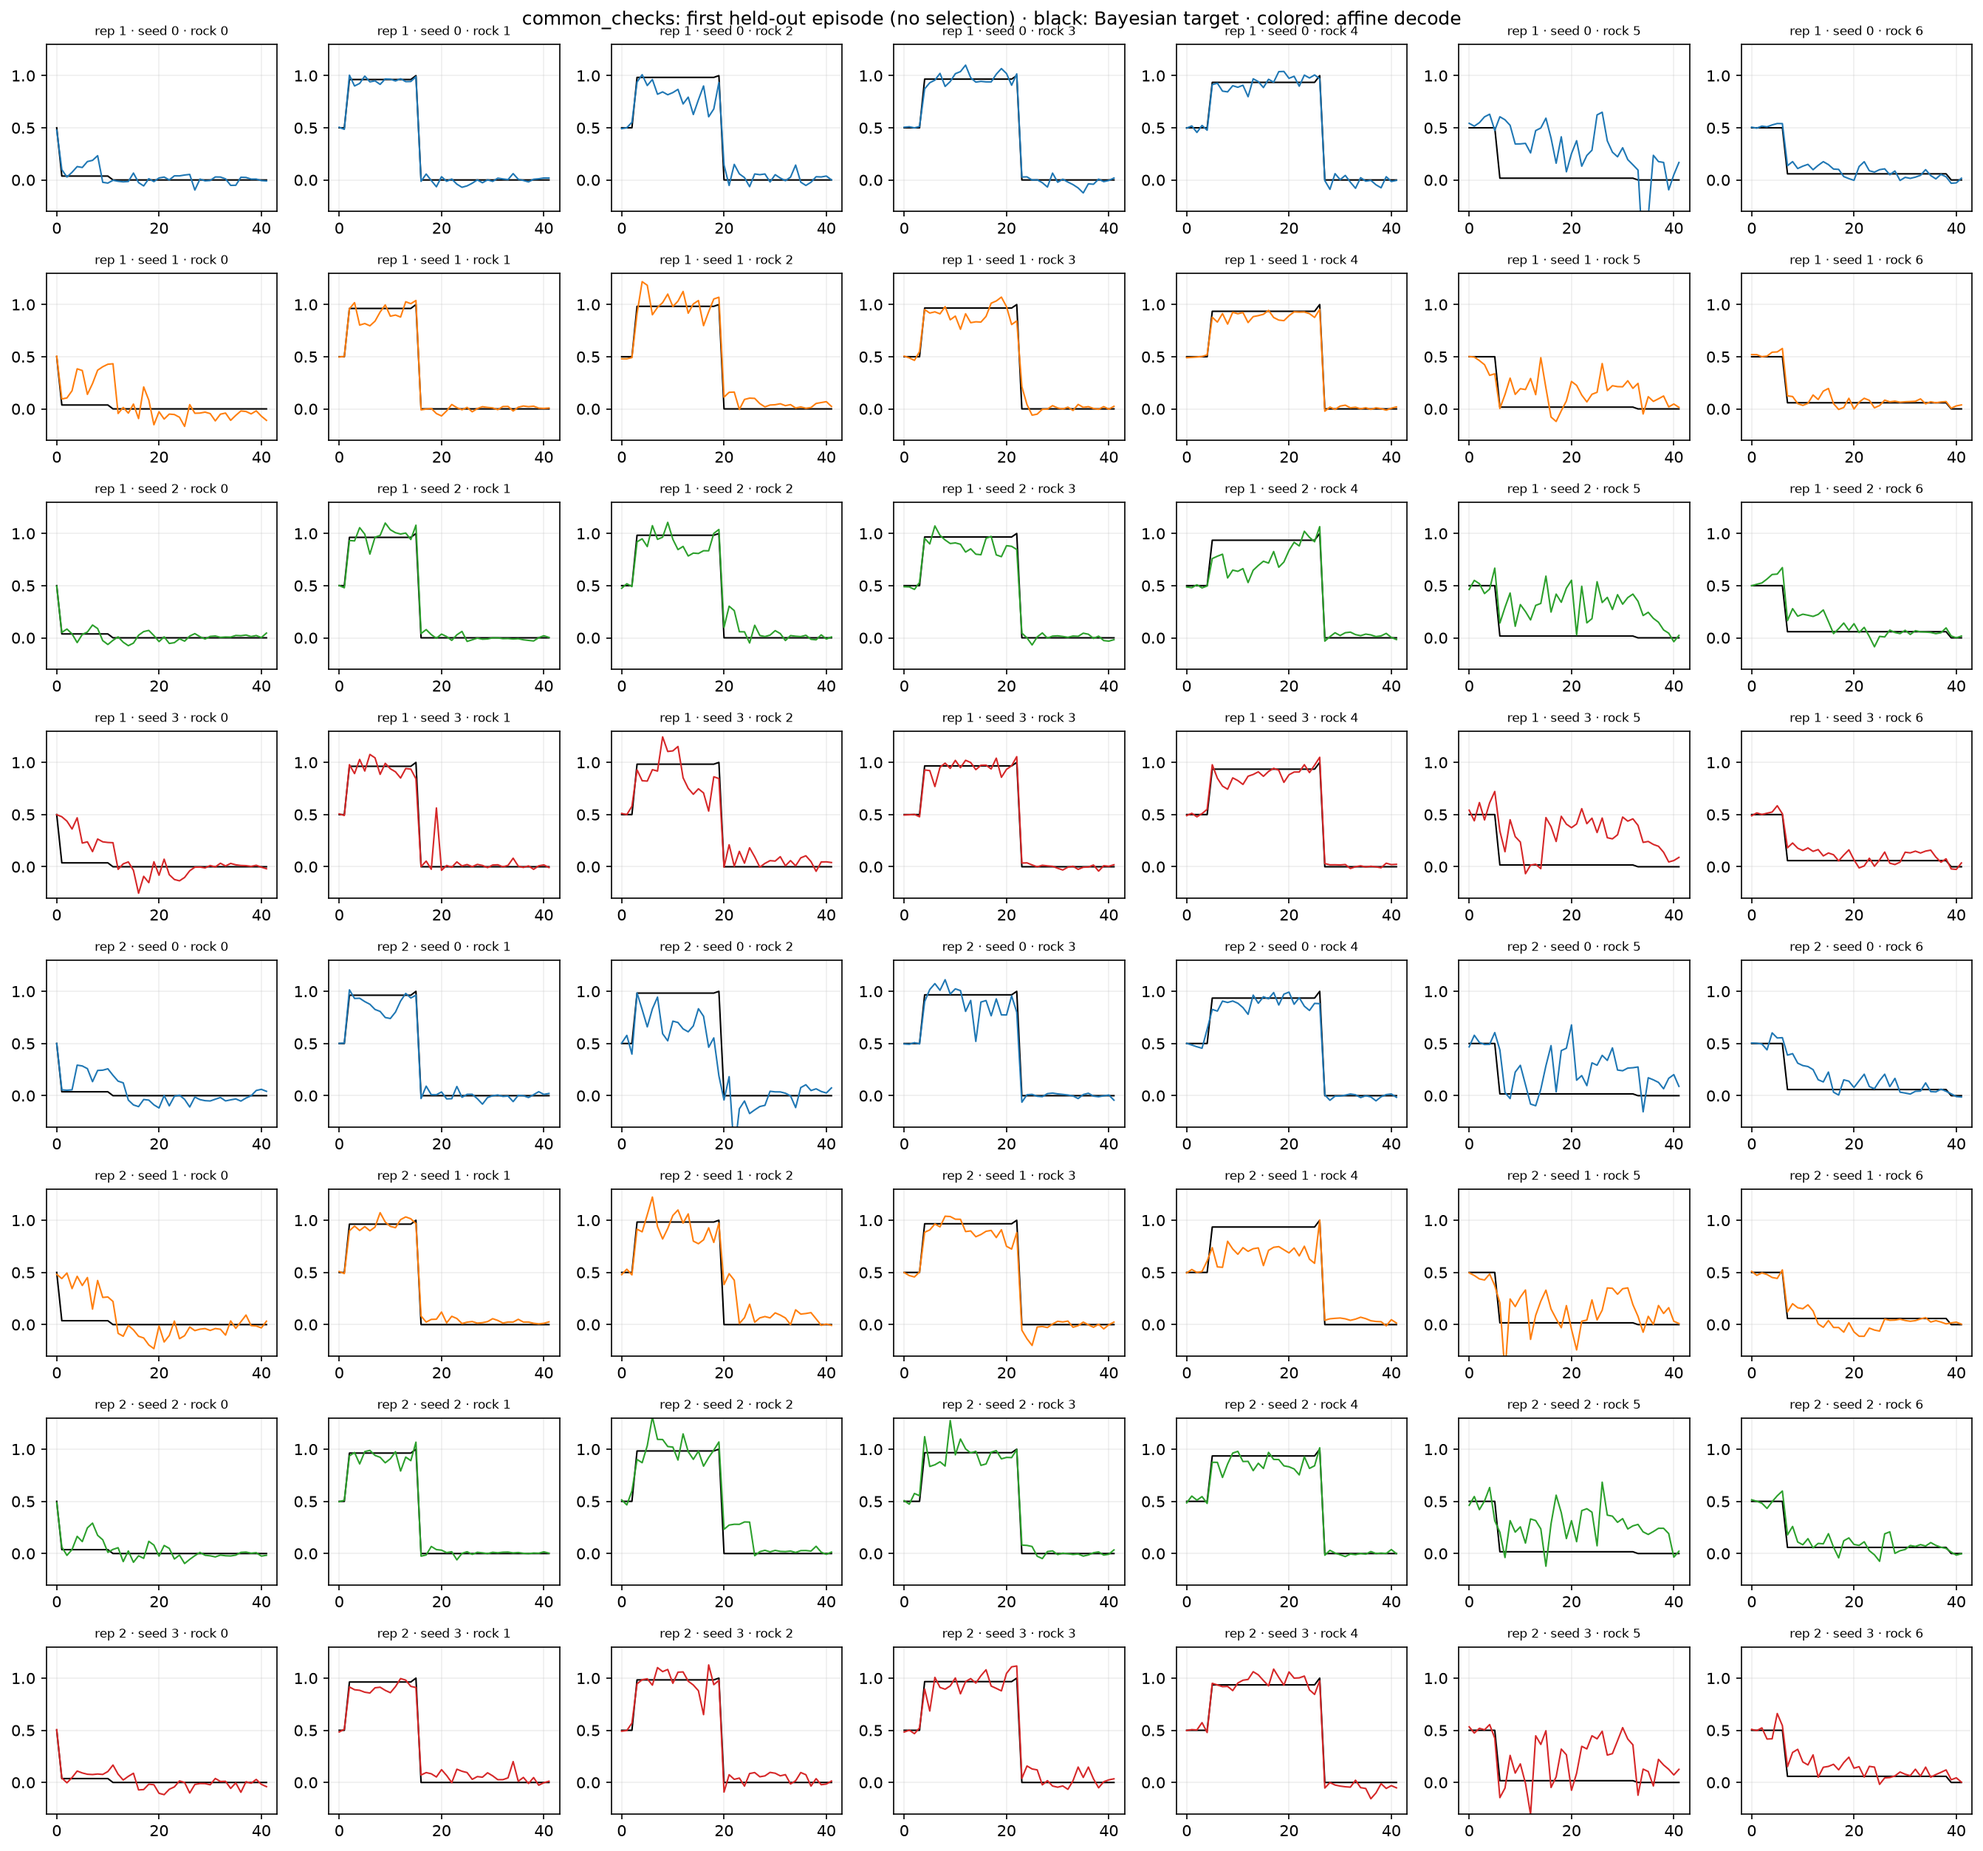
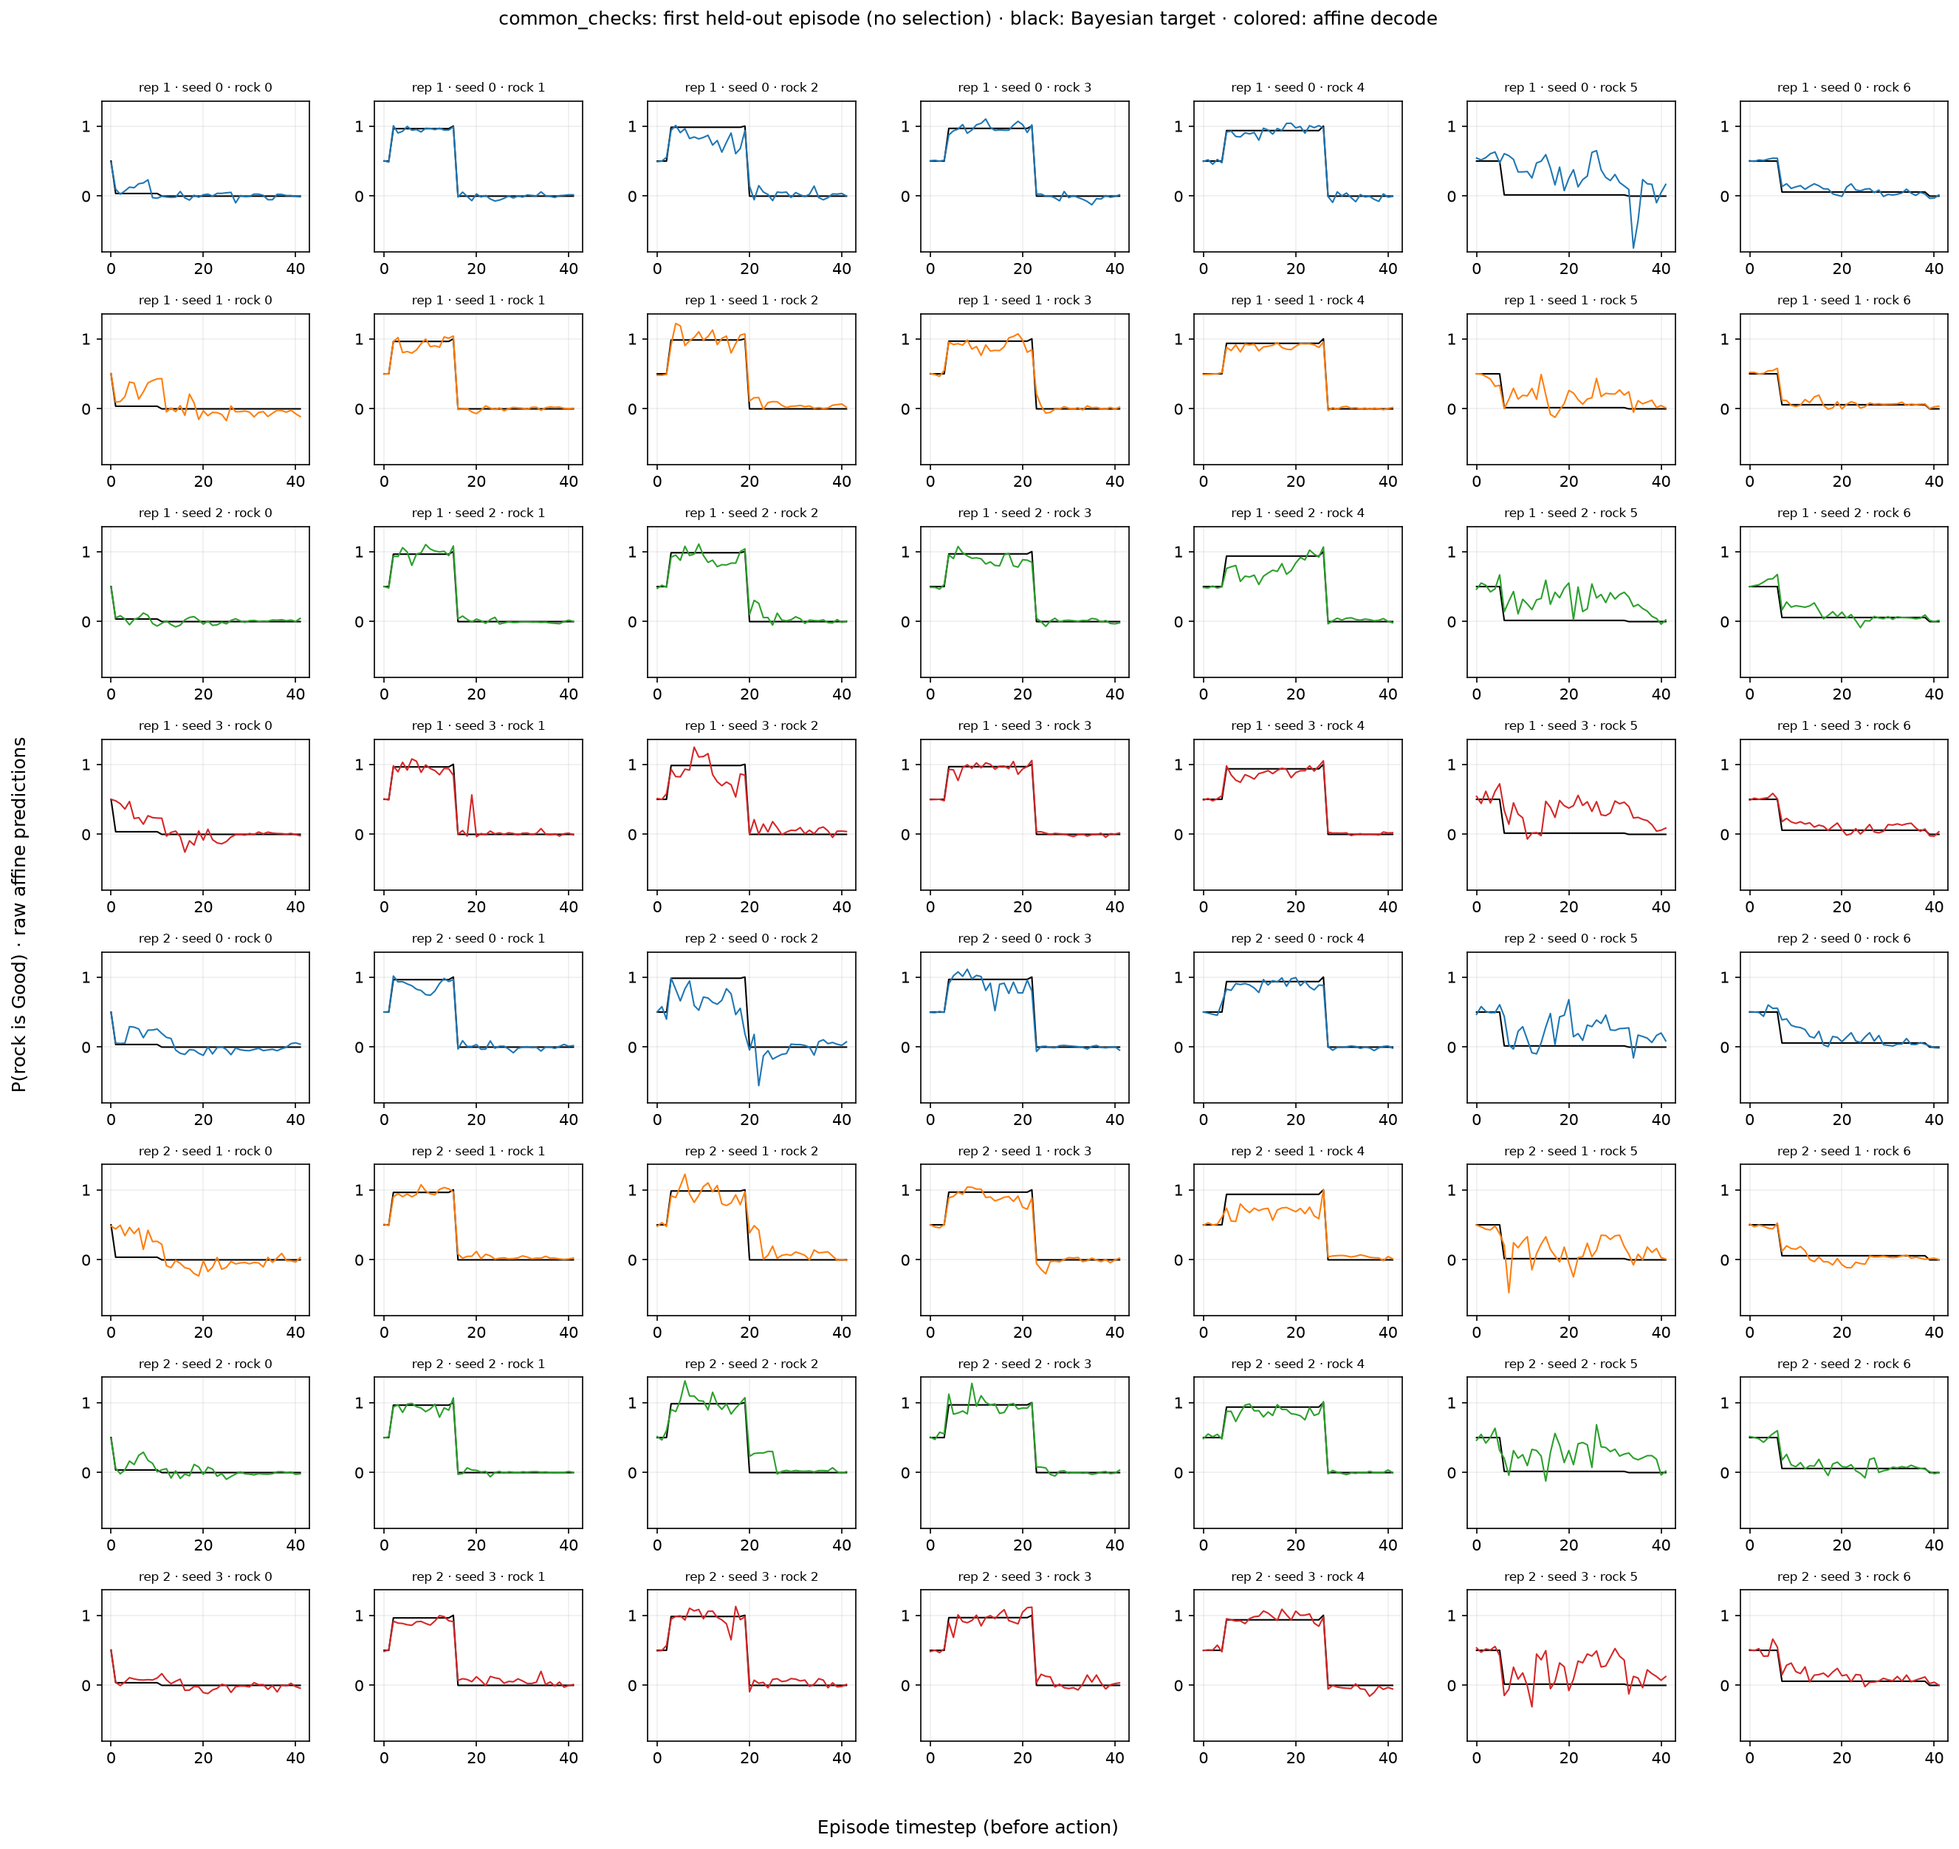
Preserve raw coordinate overshoots and qualify predictive-control findings

diff --git a/experiments/rocksample_jax_2026_10/report_checkpoint_beliefs.py b/experiments/rocksample_jax_2026_10/report_checkpoint_beliefs.py
@@ -257,6 +257,12 @@ def render(directory: Path) -> None:
 
     for distribution in ("on_policy", "common_checks"):
         fig, axes = plt.subplots(8, 7, figsize=(18, 17), squeeze=False)
+        predictions = [
+            np.array(report[distribution]["example"]["predictions"])
+            for report in finals
+        ]
+        lower = min(-0.1, min(values.min() for values in predictions)) - 0.05
+        upper = max(1.1, max(values.max() for values in predictions)) + 0.05
         for row, report in enumerate(finals):
             example = report[distribution]["example"]
             for rock in range(7):
@@ -274,12 +280,14 @@ def render(directory: Path) -> None:
                     linewidth=1,
                 )
                 ax.set_title(f"{label(report)} · rock {rock}", fontsize=8)
-                ax.set_ylim(-0.3, 1.3)
+                ax.set_ylim(lower, upper)
                 ax.grid(alpha=0.2)
         fig.suptitle(
             f"{distribution}: first held-out episode (no selection) · black: Bayesian target · colored: affine decode"
         )
-        fig.tight_layout()
+        fig.supxlabel("Episode timestep (before action)")
+        fig.supylabel("P(rock is Good) · raw affine predictions")
+        fig.tight_layout(rect=(0.015, 0.02, 1, 0.97))
         save(fig, f"coordinates_{distribution}.png")
 
     rows = []

diff --git a/experiments/rocksample_jax_2026_10/results/belief_probe_r7_20261002/findings.md b/experiments/rocksample_jax_2026_10/results/belief_probe_r7_20261002/findings.md
@@ -159,6 +159,11 @@ isolate a GPU, implementation, RNG, or scheduling cause.
   and high random-feature accessibility qualifies geometric claims.
 - M and J are different targets: a high seven-coordinate fit does not imply
   equally good affine access to every joint posterior configuration.
+- The exact next-sensor-probability control scores J R² 0.393–0.454. The three
+  higher-return decoders exceed it by 0.175–0.223 R²; four of five lower-return
+  decoders do not exceed it (rep-1 seed 3 exceeds it by just 0.022). Current
+  observable controls score 0.092–0.184. These descriptive comparisons qualify
+  any claim of geometry beyond immediately predictive information.
 - Bootstrap bands are conditional on fixed fitted probes and resample complete
   held-out episodes. They do not estimate retraining/path variability. The full
   J null/nuisance/predictive battery is run only at final on-policy checkpoints;
